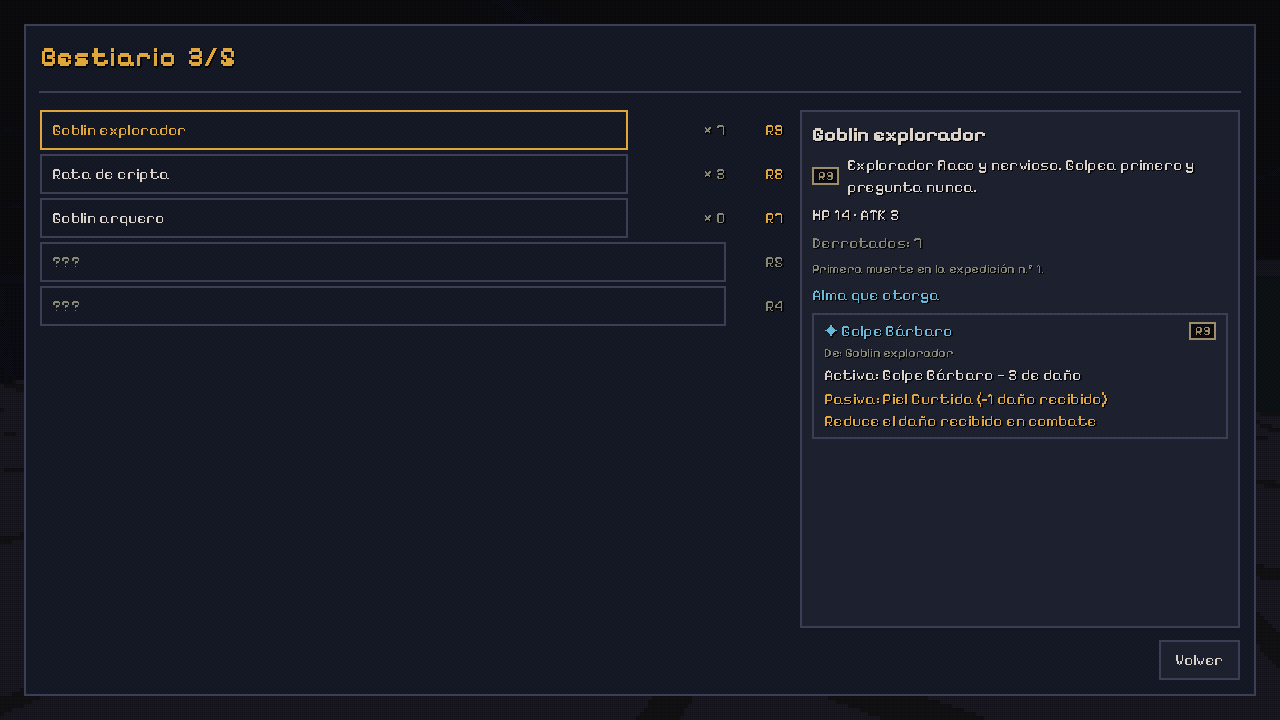
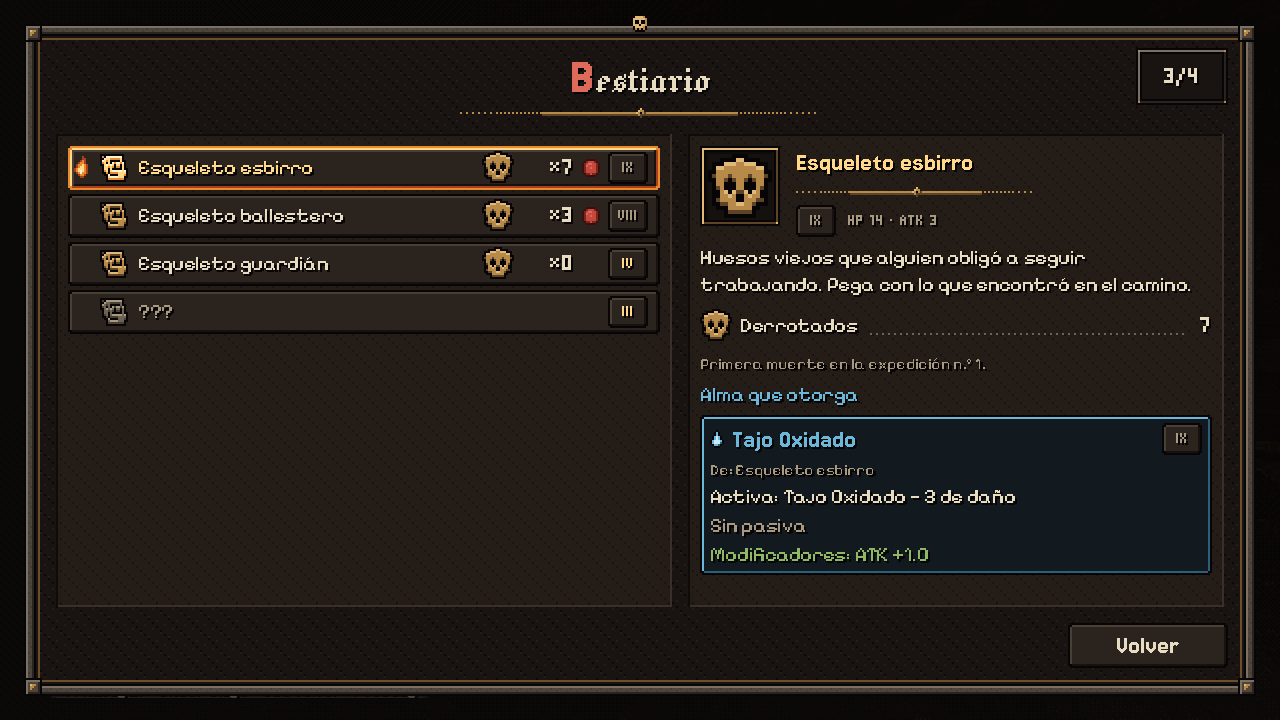
UI «Grimorio de la Cripta»: galería, capturas y documentación
- Galería de UI con los componentes nuevos (góticas, libro de cuentas,
  pips, almas, placas, nichos, íconos y marcadores del kit).
- Foco visible también con el mouse (show_focus_state_on_pointer_event=2).
- Se borran textos sin uso; la pista del Hub dice «Flechas» (a 16 px las
  flechas del respaldo se veían como barras).
- Escala de UI: en headless se usa el paso tal cual.
- Capturas nuevas en docs/capturas (Hub, listas, Crónica, Pausa, Estado,
  Inventario, Mapa, Opciones, Estadísticas, combate, alma, HUD, kit).
- README (sección de interfaz y créditos: fuentes OFL, íconos CC BY 3.0,
  sonidos CC0), estado técnico, CLAUDE.md, fuentes y tools/ui/README.md.

Claude-Session: https://claude.ai/code/session_01UeoZFo6auTCQULXfZmwuM7

diff --git a/tools/ui/make_ui_kit.py b/tools/ui/make_ui_kit.py
@@ -6,7 +6,7 @@ suavizado (ui/kit/ui_atlas.png) y escribe ui/kit/manifest.json con las
 regiones, márgenes 9-slice, ejes, cuadros de animación e íconos. ThemeBuilder
 arma el Theme a partir de ese manifiesto (scripts/ui/ui_kit.gd).
 
-    python3 -I tools/ui/make_ui_kit.py [--preview RUTA.png]
+    python3 -I tools/ui/make_ui_kit.py [--preview=RUTA.png]
 
 Determinista: dos corridas dan el mismo PNG y el mismo JSON (el test
 tests/unit/test_ui_kit.gd compara los SHA-256 de la paleta y de este script).

diff --git a/docs/ESTADO_TECNICO_PROTOTIPO.md b/docs/ESTADO_TECNICO_PROTOTIPO.md
@@ -115,14 +115,19 @@ Todo cambio de escena pasa por `SceneRouter.goto()`, con un fundido a negro de u
 - Monedas: por kill, `11 − rango` (élite ×2); jefe, `25 × piso`; cofres según el piso; primera kill de cada especie, `10 × (11 − rango)`, que se cobra en el resumen. Botín suma un % al total. Al morir o abandonar se conserva el 50%.
 - `UnlockEvaluator` (puro): `merged_progress()` suma lo de la run al progreso guardado y `evaluate()` devuelve los desbloqueos nuevos. Condiciones: `kill_species_total`, `reach_floor`, `defeat_boss`, `win_run`, `flee_count`, `no_item_use_run` y `coins_total`. Los desbloqueos se anuncian en el resumen, nunca en pleno juego.
 
-## UI — design system
+## UI — design system «Grimorio de la Cripta»
 
-- **Retratos**: `UIPortrait` (marco `PortraitFrame`, filtro nearest). Las rutas van en los datos: `items.json → retrato` y `balance.json → party[].retrato` (opcionales; si están, `DataRegistry` valida que el archivo exista). Los PNG los hornea `tools/portraits/` (render 3D con los materiales PSX del juego); ver su README. Se ven en las casillas de objetos (como ícono, a 32 px), el detalle del inventario, Objetos y desbloqueos (silueta si es secreto), Estado, el HUD y las tarjetas del combate.
-- `scripts/ui/ui_style.gd` (**UIStyle**) es el único lugar con colores, tamaños de fuente y espaciados. `ThemeBuilder` arma con eso `ui/theme_main.tres`, el tema del proyecto. **Regenerarlo** después de tocar cualquiera de los dos: `godot --headless --path . res://tools/build_theme.tscn`.
[1 lines of base64/hex data omitted]
-- Componentes (`scripts/ui/components/`, `class_name` que se arman por código, igual que el resto del proyecto): UIButton, UIMenuItem, UIPanel, UIStatBar, UIRankBadge, UISoulCard, UIItemSlot, UITooltip (aparece al enfocar y con el mouse), UIConfirmDialog, UIChoiceDialog, UIToast, UIProgressUnlock, UITabs, UIMinimap, UIPortrait, UIStatRadar y UIScreen (base de todas las pantallas: fondo atenuado, panel, título y monedas, cuerpo desplazable siguiendo al foco, pie con botones, Esc para atrás).
-- Fuentes: Pixelify Sans, más Noto Sans Symbols 1 y 2 de respaldo para ◈ ✦ ▶ ★ ← ↑… Todas sin antialiasing desde el `.import`. **Gotcha**: Godot calcula la altura de línea con la fuente más alta de la cadena de respaldo. Por eso las Noto están recortadas y con ascent/descent igualados a Pixelify; si no, el interlineado se duplica.
-- Ventana base 1280×720 con `stretch canvas_items`: se ve igual a 1080p. La escala de UI (80–150%) es `content_scale_factor`. A 150% en 1280×720 todo cabe, porque los cuerpos se desplazan.
+Dirección de arte: grimorio de hierro remachado y vitela oscura, bronce, góticas con capitular roja, cursor de llama y foco de brasa; el azul frío queda solo para las **almas**, el rojo sangre para el HP y la amatista para la EXP. Todo es pixel art a 1x escalado ×2 (`UIStyle.PIXEL_SCALE`), sin suavizado.
+
+- **Paleta** en `data/ui_palette.json` (44 colores + tokens con nombre de uso: `PANEL`, `TEXT`, `ACCENT`, `SOUL`, `HP`, `XP`...). `scripts/ui/ui_style.gd` (**UIStyle**) la repite como constantes (para usarlas en `const`) y es el único lugar con colores, tamaños de fuente y espaciados. `test_ui_kit.gd` falla si el JSON y UIStyle no coinciden, y `tools/lint` falla si aparece un `Color(` suelto en `scripts/ui`, `scripts/combat` o `SceneRouter`.
+- **Kit**: `tools/ui/make_ui_kit.py` (Python + Pillow, determinista) dibuja marcos 9-slice, botones, ranuras, barras, pestañas, sellos, pips, llamas de alma, marcadores del mapa, el cursor de llama (5 cuadros), los 30 íconos de game-icons.net en varias rampas y el logo, todo en `ui/kit/ui_atlas.png` + `ui/kit/manifest.json`. `UIKit` (`scripts/ui/ui_kit.gd`) lee el manifiesto y arma `StyleBoxTexture`/`AtlasTexture`; **ThemeBuilder** arma con eso `ui/theme_main.tres`. Regenerar (en este orden): `python3 -I tools/ui/make_ui_kit.py` y `godot --headless --path . res://tools/build_theme.tscn`. Ver `tools/ui/README.md`.
+- **Fuentes** (ver `assets/fonts/README.md`): Pixelify Sans (cuerpo), Micro 5 (cifras), Jacquard 12 / Jacquarda Bastarda 9 (minúsculas góticas) + Jersey 15 (mayúsculas góticas), Jacquard 24 (solo el logo, horneado en el atlas). Tamaños en múltiplos de la grilla de cada fuente.
[1 lines of base64/hex data omitted]
+- **Componentes** (`scripts/ui/components/`, se arman por código): UIScreen (tapa de hierro con cimera, título gótico, placa de monedas o de conteo, cuerpo desplazable, pie con botones y cinta de pista; modo `compact` para la Pausa; apertura por pasos con sonido), ListDetailScreen (lista + detalle: Mejoras, Objetos, Bestiario), UIGothicLabel, UIMenuItem (llama + ícono + gótica), UIListRow, UIButton, UIPanel, UIDivider (filete con rombo), UIIcon, UISprite, UIFlameCursor, UICoinPlate, UIStatBar (con rastro al bajar y destello con HP bajo), UIPips, UISoulSlots, UILedgerRow (libro de cuentas con puntos guía), UIRankBadge (romanos), UISoulCard, UIItemSlot (fila o nicho de 80 px), UIPortrait, UIStatRadar, UITabs (Q/E en placas), UIMinimap (marcadores del kit), UICompass, UITooltip, UIToast (cintas: info/good/danger/coin/soul/level), UIDialog → UIConfirmDialog / UIChoiceDialog (sello de lacre; tonos normal/peligro/alma), UIProgressUnlock, UISoulMotes.
+- **Sonidos de UI**: `SceneRouter.play_ui(kind)` (hover, click, cancel, open, close, page, coin, soul, error, level_up, reward, descend, item), CC0 de Kenney (`assets/audio/ui/README.md`). La transición de escena es un fundido con trama Bayer (`ui/shaders/ui_dither.gdshader`), que también da la viñeta del Hub.
+- **Retratos**: `UIPortrait` (marco `PortraitFrame`, filtro nearest). Las rutas van en los datos: `items.json → retrato` y `balance.json → party[].retrato` (opcionales; si están, `DataRegistry` valida que el archivo exista). Los PNG los hornea `tools/portraits/` (héroes 96 px, objetos 64 px): se muestran a tamaño entero (×1 o ×2) para que el píxel quede parejo.
+- **Escala de UI**: tres pasos (Compacta 0,8 / Normal 1 / Grande 1,25) en `GameSettings.UI_SCALE_STEPS`. `GameSettings.ui_factor()` redondea el `content_scale_factor` para que un píxel de arte mida un número entero de píxeles de pantalla en cualquier ventana (tabla en `tests/unit/test_ui_scale.gd`); `SceneRouter` lo recalcula al cambiar el tamaño de la ventana. Ventana base 1280×720 con `stretch canvas_items`. Con Grande en 1280×720 todo cabe porque los cuerpos se desplazan; Atributos baja el hexágono a la columna del héroe.
+- `gui/common/show_focus_state_on_pointer_event=2`: el foco se dibuja igual con mouse que con teclado/mando (la brasa y la llama son el resaltado).
 
 ## Parches en `addons/psx` (reaplicar si se actualiza el addon)
 
@@ -139,11 +144,15 @@ Todo cambio de escena pasa por `SceneRouter.goto()`, con un fundido a negro de u
 
 - Texturas del mundo y de enemigos: `detect_3d/compress_to=0` en su `.import`. Si no, el editor las pasa a VRAM comprimida con mipmaps la primera vez que las ve en 3D y se pierde el píxel limpio.
 - El esqueleto mide 1,775 m y el techo normal es de 2 m (escala 0,95–1,05 en `species.json`; la capucha del nigromante llega a ~1,93 m; la sala del jefe tiene 3 m). Revisar con `tools/enemy_preview.tscn` (líneas de 1, 2 y 3 m; `--preview-role`, `--preview-at`, `--preview-cam`, `--preview-only`).
-- `tools/screenshot.gd --call=metodo:arg` pasa el argumento como texto ("true"/"false" se convierten a bool).
+- `tools/screenshot.gd --call=metodo:arg` pasa el argumento como texto ("true"/"false" se convierten a bool, los enteros a int).
 
 - `RenderingServer.global_shader_parameter_get_list()` **solo funciona en el editor**: en el juego devuelve vacío y tira un error. Para saber si un global PSX ya existe se mira `ProjectSettings.has_setting("shader_globals/<nombre>")`.
 - Los métodos de un autoload no pueden ser `static` si se llaman como `Autoload.metodo()`: da el warning *static called on instance*.
 - `MenuButton` es una clase nativa: no se puede usar como nombre de variación de theme (se usa `MenuItem`).
+- Nombres que pisan miembros de la clase base y dan *shadowed variable*: `panel` (UIScreen), `scale`, `hidden`, `tr`, `theme`. Usar `p_panel`, `scale_opt`, `is_hidden`...
+- Un `ProgressBar` dibuja el relleno sobre todo su rectángulo: los rellenos del kit llevan márgenes de expansión negativos para quedar dentro del marco (`ThemeBuilder._fill`).
+- Texto gótico solo con `UIGothicLabel` (mayúsculas en Jersey 15) y sin símbolos (◈ ✦ ↑...): las claves fijas van en `UIGothicLabel.FIXED_KEYS` y el test las revisa.
+- Pantallas abiertas desde `tools/screenshot.gd --screen=Clase`: si tienen la propiedad `run` y la escena es la run, se les pasa; `--tab=N` elige la pestaña de Estado.
 - `seed`, `wrap`, etc. son funciones globales de GDScript: no sirven como nombres de variable o parámetro (dan el warning *shadowed global identifier*).
 - Recargar con `ResourceLoader.load(..., CACHE_MODE_IGNORE)` el script que se está ejecutando rompe su propia ejecución (lo evita `tools/lint.gd`).
 - `get_error_line()` de `JSON` es 0-based: se le suma 1 en los mensajes.
@@ -161,7 +170,7 @@ Todo cambio de escena pasa por `SceneRouter.goto()`, con un fundido a negro de u
 
 ## Tests
 
-- `tests/unit/`: datos (validación, JSON roto, `stats_for_rank`, `make_soul`), guardado (ida y vuelta, `.bak`, migración v0, versión futura), reglas (costes con tope, curva de almas, huida, monedas), niveles (EXP, subidas dobles, tope, caídos, almas extra, reparto de puntos), recompensas, desbloqueos y generador (semilla, conectividad, jefe/salida, rangos, pesos).
+- `tests/unit/`: datos (validación, JSON roto, `stats_for_rank`, `make_soul`), guardado (ida y vuelta, `.bak`, migración v0, versión futura), reglas (costes con tope, curva de almas, huida, monedas), niveles (EXP, subidas dobles, tope, caídos, almas extra, reparto de puntos), recompensas, desbloqueos, generador (semilla, conectividad, jefe/salida, rangos, pesos), kit de UI (paleta = UIStyle, manifiesto al día con la paleta y el generador, regiones e íconos, Theme guardado al día, grillas de fuentes, góticas sin símbolos, romanos) y escala de UI (píxel de arte entero en 720p, 1080p y 1366×768).
 - `tests/SmokeTest.tscn`: Boot → Hub → run con semilla fija → combate ganado con alma → combate jugado atacando turno a turno → EXP → poción usada desde el inventario → puntos repartidos y confirmados en Atributos (y la pregunta al cerrar con puntos pendientes) → caminar → jefe → piso 2 → muerte → resumen → Hub (monedas persistentes al recargar), después una run con retiro (100%), y abre todas las pantallas de UI.
 - `tools/balance_sim.tscn`: simulación de balance, con niveles y dos políticas de reparto (ver el README). Los jefes empiezan siempre con sorpresa, como en el juego (no se mueven). `-- --set=ruta=valor` pisa `balance.json` en memoria, así se pueden correr varias pruebas a la vez.
 

diff --git a/README.md b/README.md
@@ -45,15 +45,29 @@ Dungeon crawler por grilla (giros de 90°), combate por turnos con cámara está
 - **Mejoras** con monedas, con tope de 5 niveles: Vitalidad, Fuerza, Botín, Provisiones y Sabiduría.
 - **Objetos y desbloqueos**: los objetos nuevos se desbloquean **por condiciones** (llegar al piso 3, destruir 15 esqueletos, huir 3 veces…), nunca con monedas. Se ve el progreso (9/15).
 - **Bestiario**: especies vistas, kills y el alma que dan. La primera kill de cada especie da un bonus una sola vez.
-- **Estadísticas** y **Opciones**: volumen, pantalla completa, escala de UI 80–150%, **imagen** (Clásica PS1 · Crujiente · Limpia), balanceo de cámara al caminar y controles.
+- **Estadísticas** y **Opciones**: volumen, pantalla completa, escala de la interfaz (Compacta · Normal · Grande, siempre con el píxel parejo), **imagen** (Clásica PS1 · Crujiente · Limpia), balanceo de cámara al caminar, controles y créditos.
 
-| Combate | Revelación del alma | Resumen de la expedición |
+## La interfaz: «Grimorio de la Cripta»
+
+Menús de hierro remachado y vitela oscura, títulos góticos con capitular roja, cursor de llama y foco de brasa. El azul frío es solo de las **almas**, el rojo del HP y la amatista de la EXP. Todo es pixel art (×2, sin suavizado) generado por código desde una paleta en `data/ui_palette.json` (`tools/ui/`), con íconos de game-icons.net, fuentes góticas y pixel de Google Fonts y sonidos de Kenney.
+
+| Combate | Un alma se desprende | Crónica de la expedición |
 |---|---|---|
 | ![](docs/capturas/combat.png) | ![](docs/capturas/soul.png) | ![](docs/capturas/summary_revealed.png) |
 
-| Estado → Atributos | Inventario | HUD con nivel y puntos |
+| Estado → Atributos | Estado → Equipo | Inventario |
 |---|---|---|
-| ![](docs/capturas/atributos.png) | ![](docs/capturas/inventario.png) | ![](docs/capturas/hud_niveles.png) |
+| ![](docs/capturas/atributos.png) | ![](docs/capturas/estado_equipo.png) | ![](docs/capturas/inventario.png) |
+
+| Mejoras | Bestiario | Pausa |
+|---|---|---|
+| ![](docs/capturas/upgrades.png) | ![](docs/capturas/bestiary.png) | ![](docs/capturas/pausa.png) |
+
+| HUD | Mapa | Opciones |
+|---|---|---|
+| ![](docs/capturas/hud_niveles.png) | ![](docs/capturas/map.png) | ![](docs/capturas/opciones.png) |
+
+![Kit de UI](docs/capturas/ui_kit.png)
 
 ## Valores por defecto que hay que revisar (🟡)
 
@@ -94,9 +108,10 @@ Coincide con el objetivo de la guía: sin mejoras se llega al piso 2–3 (lo mis
 
 - **F1 — panel de debug**: monedas, mejoras ±1, desbloquear o bloquear todo, saltar de piso, pelear con el más cercano o con el jefe, curar, ganar el combate, forzar alma o ataque sorpresa, god mode, matar de un golpe, semilla fija, reiniciar guardado, sala de pruebas y galería de UI. Muestra FPS, celda y estado de la run. Registra los eventos en `user://debug.log`.
 - **Sala de pruebas**: la sala 15×9 del prototipo (con techo alto) con un enemigo de cada tipo, uno dormido y el jefe. Se abre desde Opciones (en debug) o con F1. No guarda progreso.
-- **Galería de UI**: todos los componentes del design system en una pantalla.
-- `tools/verify.sh`: verificación completa (import, lint con warnings como errores, arranque, 52 tests unitarios y smoke test de punta a punta, que también usa una poción desde el inventario y reparte puntos en Atributos).
-- `tools/screenshot.tscn`: capturas con Xvfb (ver el encabezado del script; `--floor=N` y `--test-room` para revisar biomas y enemigos).
+- **Galería de UI**: todos los componentes del design system en una pantalla (íconos, barras, rangos, nichos, avisos, diálogos, pestañas).
+- `tools/ui/`: generador del kit pixel de la UI (paleta → atlas + manifiesto → Theme). Ver su `README.md`.
+- `tools/verify.sh`: verificación completa (import, lint con warnings como errores, arranque, 64 tests unitarios y smoke test de punta a punta, que también usa una poción desde el inventario y reparte puntos en Atributos).
+- `tools/screenshot.tscn`: capturas con Xvfb (ver el encabezado del script; `--floor=N` y `--test-room` para revisar biomas y enemigos, `--screen=Clase` y `--tab=N` para las pantallas).
 - `tools/enemy_preview.tscn`: todos los enemigos en fila, de frente y de perfil, con líneas de referencia del techo (2 m y 3 m).
 - `tools/assets/`: pipeline que adapta los assets libres al estilo (modelos de enemigos y texturas de cada bioma). Ver su `README.md`.
 - `tools/portraits/`: hornea los retratos de héroes (96×96) y objetos (64×64) como render 3D con el filtro PS1 del juego. Ver su `README.md`.
@@ -112,15 +127,17 @@ scripts/    run/ (RunController, FloorGenerator, FloorBuilder, reglas, recompens
             combat/ (CombatManager, pasivas) · world/ (GridPlayer, EnemyVisual, RetroView, FlickerLight)
             ui/ (theme, componentes, pantallas, HUD)
 shaders/    psx_viewport_dither (trama PS1 dentro del SubViewport)
-ui/         theme_main.tres (generado por scripts/ui/theme_builder.gd)
+ui/         theme_main.tres (generado por scripts/ui/theme_builder.gd), kit/ (atlas + manifiesto de tools/ui), shaders/
 tests/      TestRunner (unitarios) y SmokeTest
-tools/      verify.sh, lint, build_theme, balance_sim, screenshot, enemy_preview, assets/ (pipeline de assets), portraits/
+tools/      verify.sh, lint, build_theme, balance_sim, screenshot, enemy_preview, assets/ (pipeline de assets), portraits/, ui/ (kit de la UI)
 docs/       GUIA_CLAUDE_CODE.md, ESTADO_TECNICO_PROTOTIPO.md, capturas/
 ```
 
 ## Licencias
 
-- Fuentes: Pixelify Sans, Noto Sans Symbols y Noto Sans Symbols 2 (SIL OFL 1.1, ver `assets/fonts/`). Las Noto están recortadas y con las métricas ajustadas.
+- **Fuentes** (SIL OFL 1.1, ver `assets/fonts/`): Jacquard 12 y 24, Jacquarda Bastarda 9, Jersey 15 y Micro 5 (The Soft Type Project Authors), Pixelify Sans (The Pixelify Sans Project Authors) y Noto Sans Symbols 1 y 2 (recortadas y con las métricas ajustadas).
+- **Íconos**: game-icons.net — *Icons made by Lorc, Delapouite, Skoll y Sbed*, [CC BY 3.0](https://creativecommons.org/licenses/by/3.0/). Rasterizados a 16 px y recoloreados. Lista y licencia en `tools/ui/`. El crédito también está en Opciones → Créditos.
+- **Sonidos de la UI**: Kenney (kenney.nl), UI Audio, RPG Audio e Interface Sounds, CC0 (`assets/audio/ui/`).
 - **Enemigos**: esqueleto "Skeleton - Realistic" de Paul Kotelevets (Blender Human Base Meshes, CC0), animado con Universal Animation Library 1 y 2 de Quaternius (CC0); la túnica del nigromante sale de Modular Character Outfits - Fantasy de Quaternius (CC0). Las armas son de KayKit Character Pack: Skeletons, de Kay Lousberg (CC0). Licencias, repos y commits exactos en `assets/enemies/LICENSE_*.txt`; el armado, en `tools/assets/` (Blender por `bpy` + Node).
 - **Antorchas**: KayKit Dungeon Remastered, de Kay Lousberg (CC0, `addons/kaykit_dungeon_remastered/Assets/LICENSE.txt`).
 - **Retratos**: héroes de KayKit Character Pack: Adventurers (Barbarian y Rogue con capucha, recoloreados) y objetos de KayKit Dungeon Remastered y Halloween Bits, más algunos hechos con primitivas; todo de Kay Lousberg, CC0 (`assets/portraits/LICENSE_KayKit_*.txt`). Detalle por retrato en `tools/portraits/README.md`.

diff --git a/CLAUDE.md b/CLAUDE.md
@@ -45,7 +45,7 @@ Las fases 0–9 de la guía están hechas: el roguelike es **jugable de punta a 
 - Escenas: `Boot` → `Hub` → `Run` (RunController) → `RunSummary`; `ui/UIGallery`.
 - Niveles: `GameState.add_xp/apply_points`, fórmulas en `RunRules.stat_*`, valores en `balance.json → leveling/stats`; UI en `scripts/ui/screens/attributes_page.gd`.
 - Datos de juego en `data/*.json` (especies, almas, objetos, desbloqueos, mejoras, pisos, balance, textos), validados por `DataRegistry`.
-- UI: un solo Theme generado por `scripts/ui/theme_builder.gd` desde los tokens de `scripts/ui/ui_style.gd`; componentes en `scripts/ui/components/`.
+- UI «Grimorio de la Cripta» (hierro, vitela, bronce, góticas; azul solo para almas): paleta en `data/ui_palette.json` (espejada en `scripts/ui/ui_style.gd`) → kit pixel generado por `tools/ui/make_ui_kit.py` (`ui/kit/`) → un solo Theme generado por `scripts/ui/theme_builder.gd`; componentes en `scripts/ui/components/`. Ver `tools/ui/README.md` y `docs/ESTADO_TECNICO_PROTOTIPO.md` → UI.
 - Plugins: `addons/psx` (PSX Visuals, **parcheado**: ver abajo), `addons/level_block` (parcheado; el juego usa su algoritmo en mallas propias), `addons/dungeon_crawler_3d` (evaluado y descartado) y `addons/kaykit_dungeon_remastered` (CC0; de ahí salen las antorchas).
 - Enemigos: esqueleto realista CC0 (Kotelevets) + animaciones CC0 de Quaternius (UAL1/UAL2), armas de KayKit (CC0); armado con `tools/assets/` (`build_skeletons.py` con `bpy` + `process_enemies.mjs`) → `assets/enemies/`, animados por `scripts/world/enemy_visual.gd` según `species.json → visual`. Los goblins quedan `"activo": false` (sin licencia).
 - Estilo Lunacid: biomas por piso en `floors.json → themes`, texturas CC0 (WRAD) en `assets/textures/<bioma>/`, imagen PS1 por `scripts/world/retro_view.gd` (presets en `balance.json → render.presets`).
@@ -62,7 +62,7 @@ tools/verify.sh       # todo: import + lint + arranque (--quit-after 120) + test
 - `tools/verify.sh` copia `tools/strict_warnings.cfg` como `override.cfg` mientras corre: Godot no imprime warnings de GDScript fuera del editor, así que se suben a error para detectarlos. `override.cfg` está en `.gitignore`; nunca se commitea.
 - `tools/lint.tscn` carga todos los scripts/escenas propios (no addons) y revisa que cada `DataRegistry.t("clave")` exista en `data/texts.json`.
 - Tests: `res://tests/TestRunner.tscn` (unitarios en `tests/unit/`) y `res://tests/SmokeTest.tscn` (de punta a punta, con guardado aparte).
-- Theme: después de tocar `ui_style.gd` o `theme_builder.gd`, regenerar con `godot --headless --path . res://tools/build_theme.tscn` y commitear `ui/theme_main.tres`.
+- Kit y Theme: después de tocar `data/ui_palette.json`, `tools/ui/make_ui_kit.py` o la lista de íconos, correr `python3 -I tools/ui/make_ui_kit.py`; después de eso o de tocar `ui_style.gd`/`theme_builder.gd`, regenerar con `godot --headless --path . res://tools/build_theme.tscn`. Commitear `ui/kit/` y `ui/theme_main.tres` (`tests/unit/test_ui_kit.gd` falla si quedaron viejos o si la paleta del JSON y la de `UIStyle` no coinciden).
 - Balance: `godot --headless --path . res://tools/balance_sim.tscn` (con niveles; `-- --set=ruta=valor` prueba valores sin tocar `balance.json`).
 - Capturas reales (para revisar UI): `tools/screenshot.tscn` con `xvfb-run` y `--rendering-driver opengl3` (ver su encabezado; `--floor=N`, `--test-room`). Enemigos: `tools/enemy_preview.tscn`.
 - Assets libres: pipeline en `tools/assets/` (Node + Python, ver su README). Solo CC0/CC-BY verificados leyendo el LICENSE.
@@ -80,6 +80,6 @@ tools/verify.sh       # todo: import + lint + arranque (--quit-after 120) + test
 - **La trama PS1 va dentro del SubViewport** (`RetroView`), no en el autoload del addon (`psx_bit_depth` = 0): si no, cubre la UI.
 - `CombatManager`: pasar datos por propiedades ANTES de `add_child`; `party_roster` es `Array` (no `Array[Dictionary]`). Trabaja sobre copias y nunca muta `GameState`: termina con `combat_ended(outcome, result)` (`victory|defeat|fled`, `{hp, items_used, soul_pick}`) y `RunController` lo aplica.
 - **GameState nunca escribe en MetaState.** La run solo toca lo persistente en `RunSummary`, con `RunRewards.compute()` + `MetaState.apply_run_result()` (una vez) + `SaveSystem.save_meta()`.
-- **UI**: nada de colores ni estilos sueltos. Usar las variaciones del Theme y los componentes `UI*`; los colores solo vienen de `UIStyle`. Cada pantalla extiende `UIScreen` y deja el foco inicial puesto.
+- **UI**: nada de colores ni estilos sueltos. Usar las variaciones del Theme y los componentes `UI*`; los colores solo vienen de `UIStyle` (`tools/lint` rechaza `Color(` literales en `scripts/ui`, `scripts/combat` y `SceneRouter`). Cada pantalla extiende `UIScreen` (o `ListDetailScreen`) y deja el foco inicial puesto. Todo texto gótico va con `UIGothicLabel` y sin símbolos (sus claves fijas, en `UIGothicLabel.FIXED_KEYS`). Íconos con `UIIcon.make(id, rampa)`, sonidos con `SceneRouter.play_ui(tipo)`. Imágenes de píxel siempre a escala entera (retratos de 96/64 px a ×1 o ×2).
 - **Licencia**: el pack de goblins no trae licencia; verificar antes de publicar.
 - **Cambios de diseño grandes: confirmar con el usuario**; él decide el rumbo.

diff --git a/assets/fonts/README.md b/assets/fonts/README.md
@@ -1,9 +1,18 @@
 # Fuentes (todas SIL Open Font License 1.1)
 
-| Archivo | Fuente | Licencia | Notas |
-|---|---|---|---|
-| `PixelifySans-Regular.woff`, `PixelifySans-Bold.woff` | Pixelify Sans (subconjunto latino de @fontsource/pixelify-sans 5.3.0) | `OFL_PixelifySans.txt` | Sin cambios. |
-| `NotoSansSymbols2-Regular.woff` | Noto Sans Symbols 2 (@fontsource) | `OFL_NotoSansSymbols2.txt` | **Modificada**: recortada a flechas, formas geométricas, símbolos y dingbats (U+2190–21FF, 25A0–25FF, 2600–27BF, 2B00–2BFF) y con métricas verticales igualadas a Pixelify Sans (ascent 920 / descent 280), para que el respaldo de símbolos no agrande el interlineado. |
-| `NotoSansSymbols-Regular.woff` | Noto Sans Symbols (@fontsource) | `OFL_NotoSansSymbols.txt` | **Modificada** igual que la anterior (aporta las flechas ← ↑ → ↓). |
+| Archivo | Fuente | Uso | Licencia | Notas |
+|---|---|---|---|---|
+| `PixelifySans-Regular.woff` | Pixelify Sans (subconjunto latino de @fontsource/pixelify-sans 5.3.0) | Cuerpo de texto (20 y 16 px) | `OFL_PixelifySans.txt` | Sin cambios. |
+| `Jacquard12-Regular.ttf` | Jacquard 12 (The Soft Type Project Authors) | Minúsculas de los títulos góticos (`UIGothicLabel`, 42 px) | `OFL_Jacquard.txt` | Sin cambios. |
+| `Jacquard24-Regular.ttf` | Jacquard 24 | Solo el logo, que `tools/ui/make_ui_kit.py` dibuja en el atlas | `OFL_Jacquard.txt` | Sin cambios. |
+| `JacquardaBastarda9-Regular.ttf` | Jacquarda Bastarda 9 | Minúsculas de las citas góticas (lema, epitafios) | `OFL_JacquardaBastarda9.txt` | Sin cambios. |
+| `Jersey15-Regular.ttf` | Jersey 15 | Mayúsculas y capitulares de todo texto gótico (las fraktur confunden I/J, A/Il) | `OFL_Jersey15.txt` | Sin cambios. |
+| `Micro5-Regular.ttf` | Micro 5 | Cifras: monedas, HP, rangos, conteos (22, 33 y 44 px) | `OFL_Micro5.txt` | Sin cambios. |
+| `NotoSansSymbols2-Regular.woff` | Noto Sans Symbols 2 (@fontsource) | Respaldo de símbolos | `OFL_NotoSansSymbols2.txt` | **Modificada**: recortada a flechas, formas geométricas, símbolos y dingbats (U+2190–21FF, 25A0–25FF, 2600–27BF, 2B00–2BFF) y con métricas verticales igualadas a Pixelify Sans (ascent 920 / descent 280), para que el respaldo de símbolos no agrande el interlineado. |
+| `NotoSansSymbols-Regular.woff` | Noto Sans Symbols (@fontsource) | Respaldo de flechas ← ↑ → ↓ | `OFL_NotoSansSymbols.txt` | **Modificada** igual que la anterior. |
 
-Los `.import` tienen `antialiasing=0` y `hinting=0`: texto pixelado nítido.
+Las cinco de The Soft Type Project salen del repositorio `google/fonts` (carpeta `ofl/` de cada familia), con su `OFL.txt`.
+
+Los `.import` tienen `antialiasing=0` y `hinting=0`: texto pixelado nítido. Los tamaños son múltiplos de la grilla de cada fuente (ver `UIStyle`); `tests/unit/test_ui_kit.gd` lo revisa.
+
+A 16 px las flechas ↑ ↓ del respaldo se ven como barras: en textos chicos se escribe «Flechas» y en Opciones las teclas van en placas (`UITabs.make_keycap`), con Micro 5.

diff --git a/tools/ui/README.md b/tools/ui/README.md
@@ -1,0 +1,47 @@
+# Kit pixel de la UI («Grimorio de la Cripta»)
+
+Toda la UI sale de un solo atlas de pixel art generado por código. Nada se dibuja a mano en un editor: los colores vienen de `data/ui_palette.json` y las piezas de `make_ui_kit.py`, así que cambiar un color es editar el JSON y regenerar.
+
+```
+data/ui_palette.json ──► tools/ui/make_ui_kit.py ──► ui/kit/ui_atlas.png + ui/kit/manifest.json
+tools/ui/src/icons_1x/*.png ┘   (Pillow, determinista)
+scripts/ui/ui_style.gd (espejo de la paleta) ─┐
+scripts/ui/ui_kit.gd (manifiesto → StyleBoxTexture / AtlasTexture) ─┤
+                                              ▼
+scripts/ui/theme_builder.gd ──(tools/build_theme.tscn)──► ui/theme_main.tres (único Theme)
+```
+
+## Regenerar
+
+Después de tocar la paleta, el generador, la lista de íconos o el título del juego (`app.title`, que dibuja el logo):
+
+```
+python3 -I tools/ui/make_ui_kit.py [--preview=docs/capturas/ui_kit.png]
+godot --headless --path . res://tools/build_theme.tscn
+```
+
+Y commitear `ui/kit/` y `ui/theme_main.tres`. Si se cambió un color de `data/ui_palette.json`, copiarlo también a la constante del mismo nombre en `scripts/ui/ui_style.gd`: `tests/unit/test_ui_kit.gd` falla si no coinciden, si el manifiesto no corresponde a la paleta o al generador actuales, o si el Theme guardado quedó viejo.
+
+## Íconos
+
+Los 30 íconos son de [game-icons.net](https://game-icons.net) (repo `github.com/game-icons/icons`), **CC BY 3.0**: hay que dar crédito (ya va en Opciones → Créditos y en el README). Licencia original: `src/LICENSE_game-icons.txt`.
+
+- `src/icons.json`: id del juego → `autor/nombre` del SVG.
+- `src/icons_svg/<autor>/*.svg`: los SVG originales.
+- `src/icons_1x/<id>.png`: máscaras de 14×14 (1 bit), commiteadas. Las genera `rasterize_icons.py`, que necesita `cairosvg` y se corre solo al cambiar la lista:
+
+```
+python3 -m venv /tmp/venv_ui && /tmp/venv_ui/bin/pip install cairosvg pillow
+/tmp/venv_ui/bin/python -I tools/ui/rasterize_icons.py
+```
+
+El generador pinta cada máscara en rampas de la paleta (`bronce`, `vela`, `apagado` y, según el ícono, `alma`, `moneda`, `sangre`, `amatista`), con contorno de tinta. En el juego: `UIIcon.make("mejoras", "vela")`.
+
+| Autor | Íconos |
+|---|---|
+| Lorc | anvil, barbute, book-cover, broadsword, candlebright, checked-shield, clover, cog, crossed-swords, feather, flying-flag, ghost, heart-organ, hourglass, locked-chest, magic-palm, run, scroll-unfurled, standing-potion, swap-bag, treasure-map, trophy |
+| Delapouite | dungeon-gate, exit-door, stairs, torch, two-coins, upgrade |
+| Sbed | death-skull |
+| Skoll | hearts |
+
+Modificaciones: rasterizados a 14–16 px y recoloreados.
